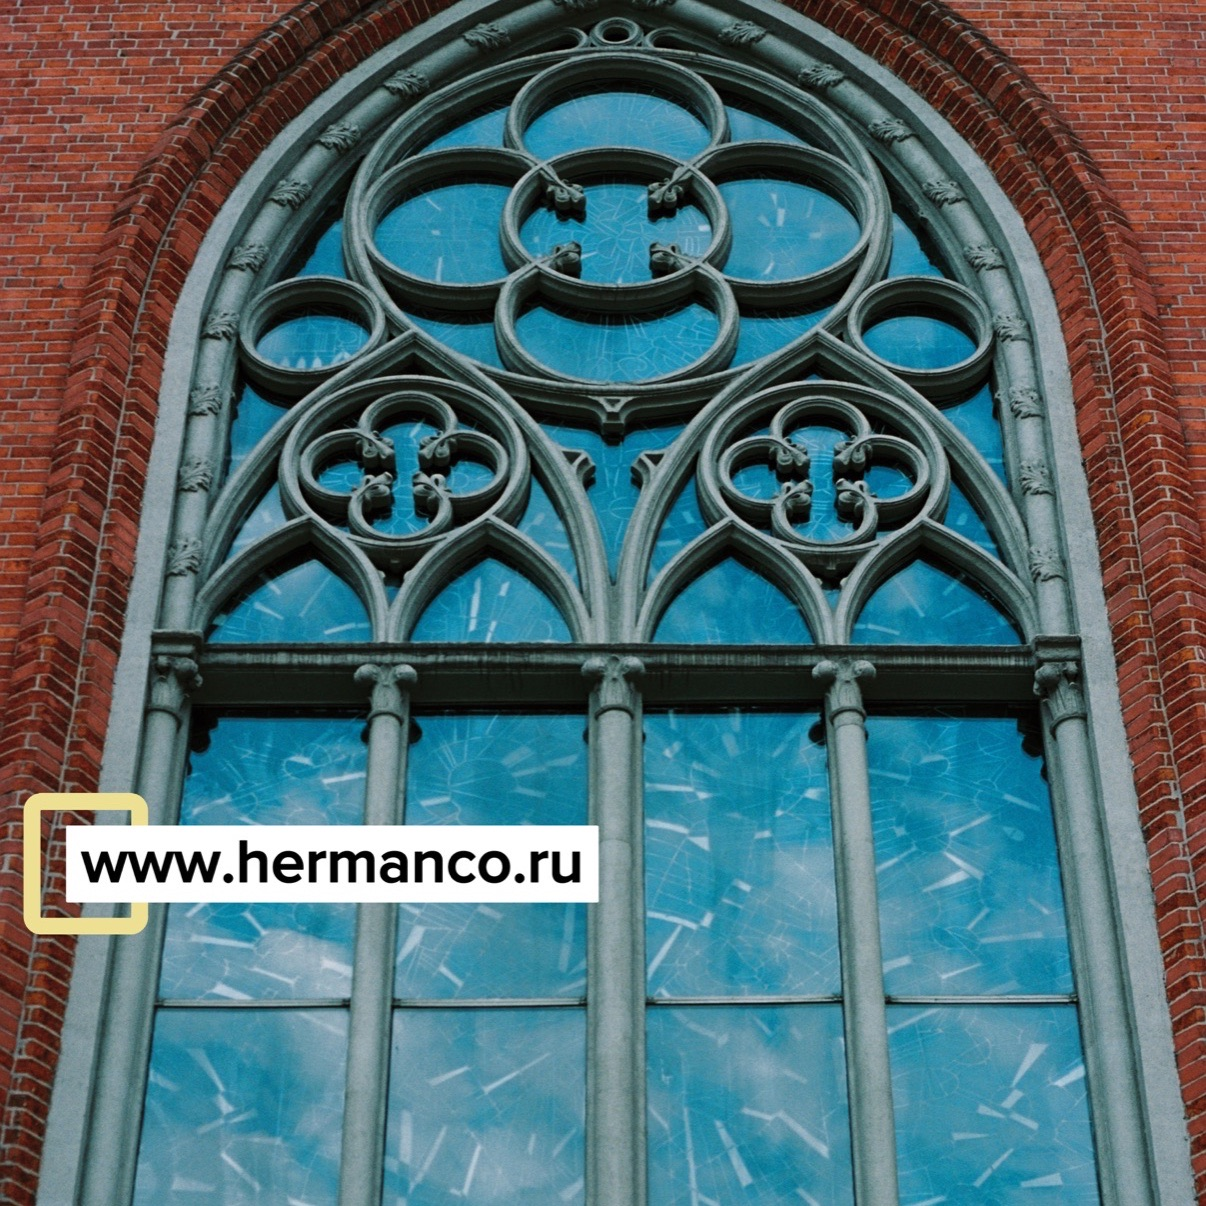
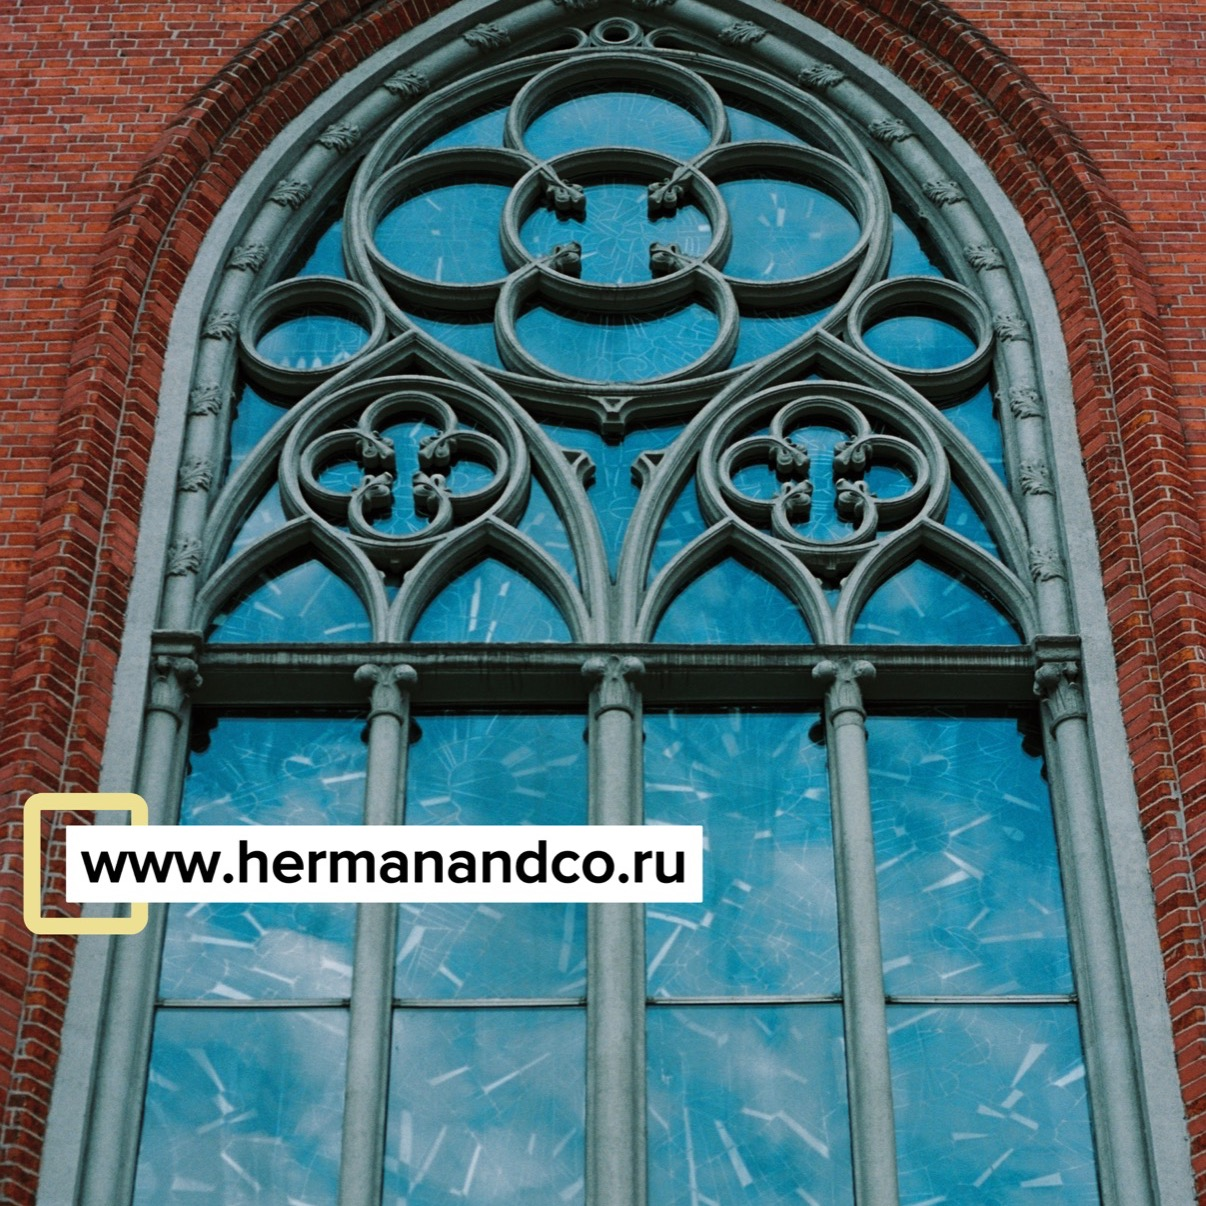
Update Vol. 3 cover address

Changed region(s): [[0.3682, 0.675, 0.5829, 0.767]]

diff --git a/index.html b/index.html
@@ -418,7 +418,7 @@
             <article class="music-release" aria-labelledby="music-vol-3-title">
               <div class="music-release__head">
                 <figure class="music-release__cover music-release__cover--placeholder" role="img" aria-label="Обложка плейлиста Vol. 3" data-cover-state="loading" data-playlist-cover="vol-3">
-                  <img src="assets/music-vol-3.jpg?v=20260815-1" alt="" width="1206" height="1206" loading="lazy" decoding="async" data-music-cover>
+                  <img src="assets/music-vol-3.jpg?v=20260815-2" alt="" width="1206" height="1206" loading="lazy" decoding="async" data-music-cover>
                 </figure>
                 <div class="music-release__summary">
                   <p class="music-panel__eyebrow">Подборка</p>
